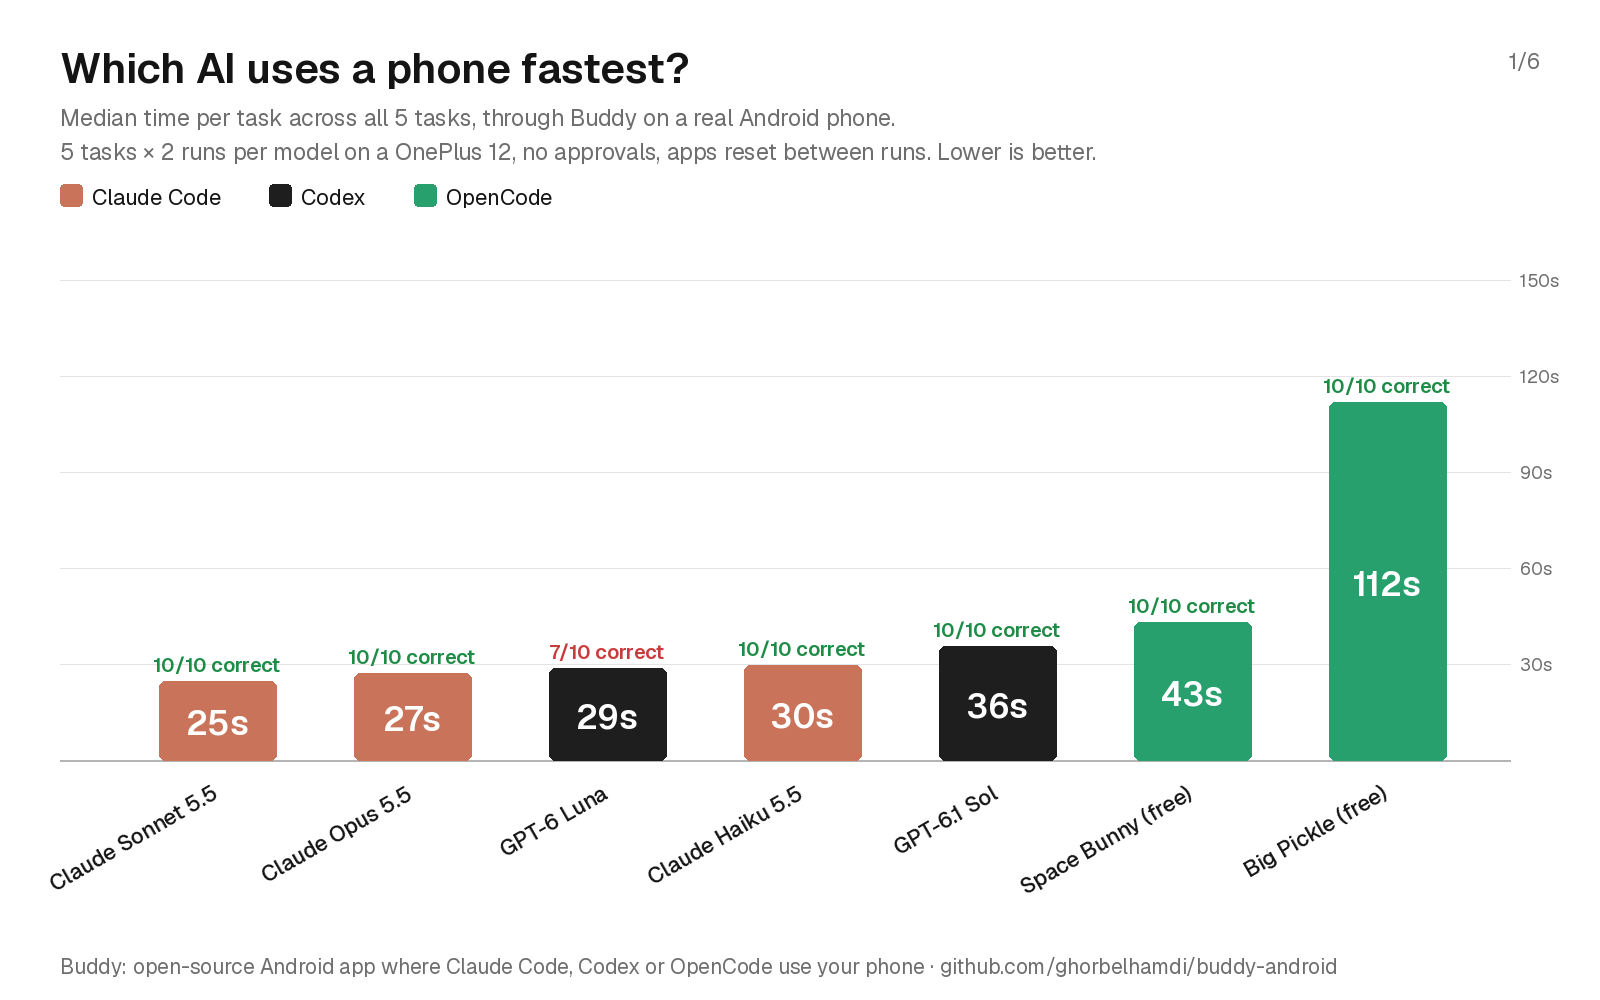
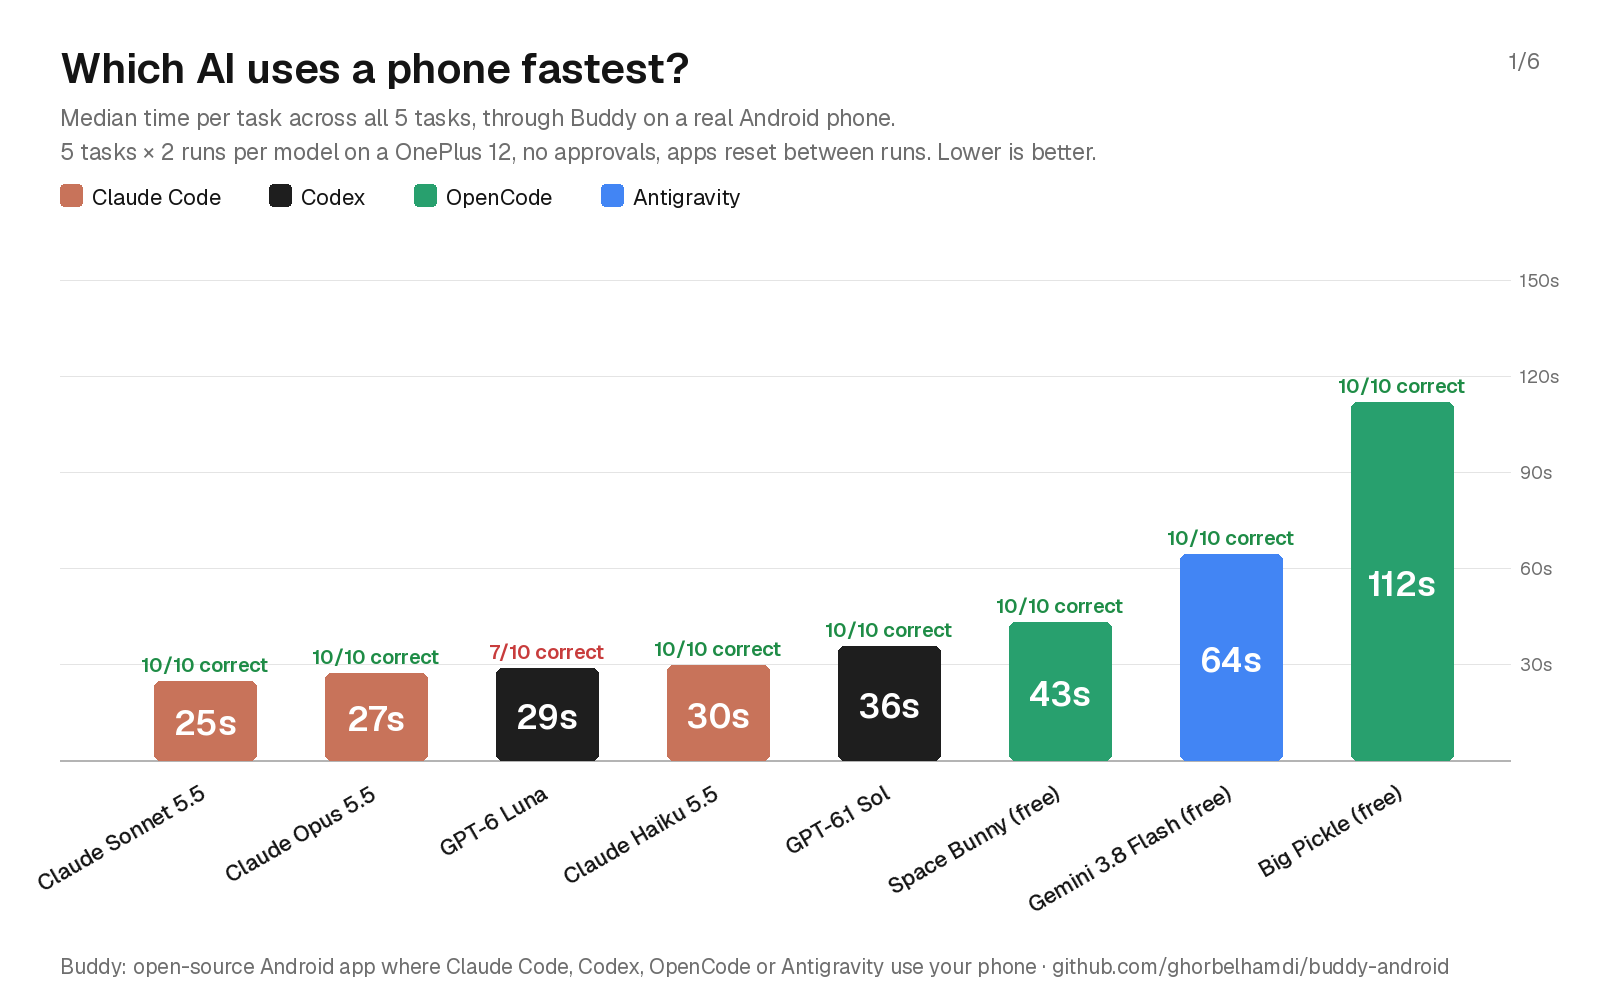
Benchmark: Antigravity (Gemini 3.8 Flash)
Same 5 tasks × 2 runs, phone and resets, with Buddy 2.2.8: 10/10 correct, median 64 s, 11 steps. A second round
stopped after 4 runs when the free plan's quota ran out (about a week), so it isn't counted. Charts redrawn.

Claude-Session: https://claude.ai/code/session_01Sz8Aewz1mUApAuyDmVa6LF

diff --git a/benchmark/README.md b/benchmark/README.md
@@ -7,7 +7,7 @@ How fast and how reliably different models operate a real Android phone through 
 ## Setup
 
 - Phone: OnePlus 12, Android 16 (OxygenOS 16.0.10), German locale.
-- Buddy 2.1.14, each model started in a fresh chat with the same prompt. Default effort (no effort setting passed).
+- Buddy 2.1.14, each model started in a fresh chat with the same prompt. Default effort (no effort setting passed). Antigravity was added on 21 October 2026 with Buddy 2.2.8, same phone, tasks and resets.
 - The 5 test apps were set to **Trust**, so no approval cards could add waiting time.
 - Before every run, the app is reset (Settings back to its main page, Calculator cleared, Chrome on a blank page, Maps and YouTube backed out to their start screen), then Home.
 - 2 runs per model and task. Time is measured from sending the prompt until the agent's final answer.
@@ -34,6 +34,7 @@ Median time per task over all 10 runs:
 | Claude Haiku 5.5 | Claude Code | 30 s | 10/10 | 14 |
 | GPT-6.1 Sol | Codex | 36 s | 10/10 | 13 |
 | Space Bunny (free) | OpenCode | 43 s | 10/10 | 15 |
+| Gemini 3.8 Flash Medium (free) | Antigravity | 64 s | 10/10 | 11 |
 | Big Pickle (free) | OpenCode | 112 s | 10/10 | 12 |
 
 Answers were checked by hand. Luna's misses: twice it gave today's high and low instead of the current temperature, and once it couldn't get Calculator to compute and answered from its own math. For YouTube the agent's own report that the video plays was accepted.
@@ -44,7 +45,7 @@ Raw runs: [results.jsonl](results.jsonl) (`ms` = time, `tools` = phone tool call
 
 ## Limits
 
-One phone, one locale, 2 runs per model and task: a first look, not a definitive ranking. Free OpenCode models change often and some fail on and off (beam, for example, failed half its runs with a server error and isn't listed).
+One phone, one locale, 2 runs per model and task: a first look, not a definitive ranking. Free OpenCode models change often and some fail on and off (beam, for example, failed half its runs with a server error and isn't listed). Antigravity ran on Google's free plan: most of its time is the model (about 3 s per step), plus a few seconds of agy starting for every message. A second round stopped after 4 runs when the free plan's quota ran out (it resets after about a week), so it isn't counted.
 
 # Shopping traps: Agent Loyalty Index
 
